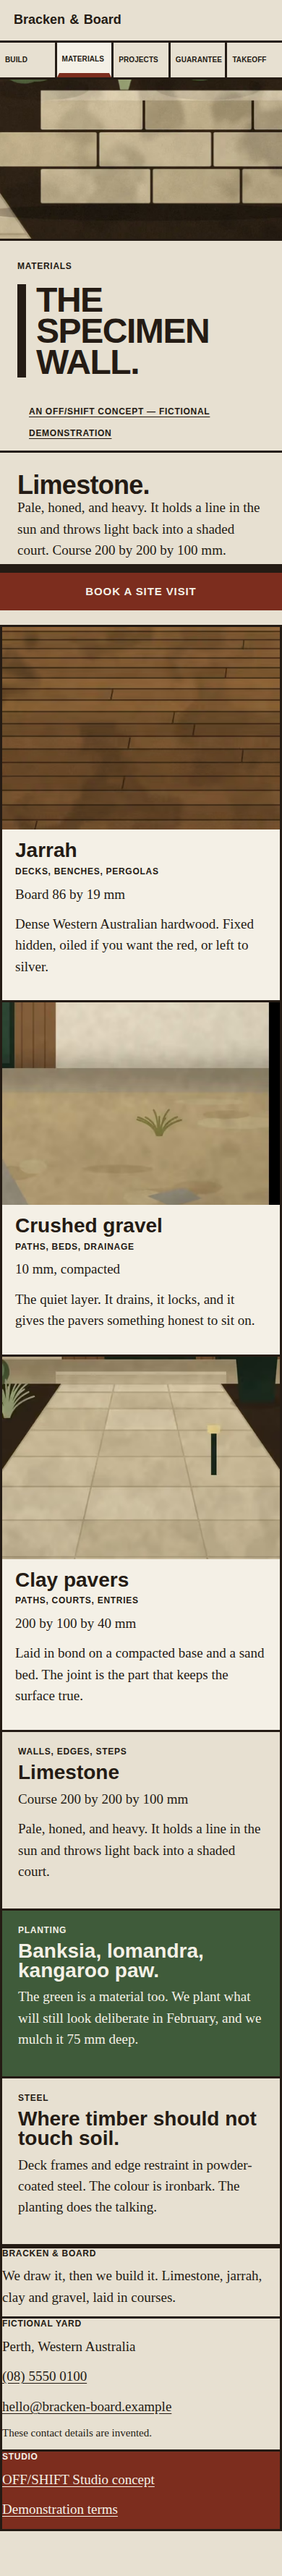
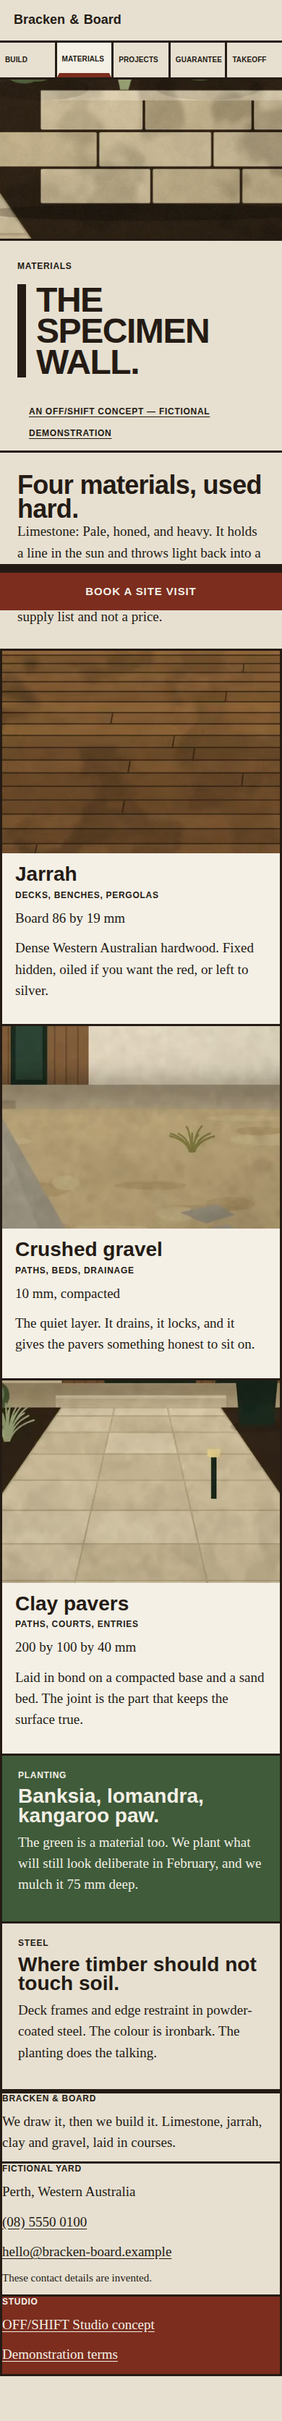
Space inline labels and clean the materials wall.
Separate labels from the text that follows them, inset the section spec rows, drop the second Limestone heading, and recrop the gravel specimen so the black plate edge is gone.

diff --git a/app/materials/page.tsx b/app/materials/page.tsx
@@ -9,14 +9,14 @@ export const metadata: Metadata = {
 };
 
 const rest = materials.slice(1);
-const spans = ["g-1-7", "g-8-5", "g-1-8"];
+const spans = ["g-1-7", "g-8-5", "g-1-12"];
 
 export default function MaterialsPage() {
   const limestone = materials[0];
   return (
     <>
       <link rel="preload" as="image" href="/photos/swatch-limestone-800.avif" fetchPriority="high" />
-      <header className="lead-specimen">
+      <header className="lead-specimen" id="limestone">
         <div className="lead-specimen__copy">
           <p className="label">Materials</p>
           <h1>The specimen wall.</h1>
@@ -29,8 +29,10 @@ export default function MaterialsPage() {
       </header>
       <section className="course" aria-labelledby="spec-title" data-layout="specimen-wall">
         <div className="course__intro">
-          <h2 id="spec-title">{limestone.name}.</h2>
-          <p>{limestone.note} {limestone.spec}. Demonstration specification, not a supply list and not a price.</p>
+          <h2 id="spec-title">Four materials, used hard.</h2>
+          <p>
+            {limestone.name}: {limestone.note} {limestone.spec}. Demonstration specification, not a supply list and not a price.
+          </p>
         </div>
         <div className="wall">
           {rest.map((m, i) => (
@@ -44,12 +46,6 @@ export default function MaterialsPage() {
               </div>
             </article>
           ))}
-          <article id="limestone" className="g-9-4 block-pad">
-            <p className="label">{limestone.use}</p>
-            <h3>{limestone.name}</h3>
-            <p className="nums">{limestone.spec}</p>
-            <p>{limestone.note}</p>
-          </article>
           <article id="planting" className="g-1-7 block-pad block--moss">
             <p className="label">Planting</p>
             <h3>Banksia, lomandra, kangaroo paw.</h3>

diff --git a/app/globals.css b/app/globals.css
@@ -94,6 +94,10 @@ a:hover {
   margin: 0 0 8px;
 }
 
+span.label {
+  margin-right: 1em;
+}
+
 .nums,
 .plaque dd,
 .bond-result dd {
@@ -642,7 +646,7 @@ main {
   grid-template-columns: minmax(0, 14rem) 1fr;
   gap: 12px;
   border-top: 3px solid var(--ink);
-  padding: 8px 0;
+  padding: 10px 0 10px 16px;
 }
 
 .spec dt {
